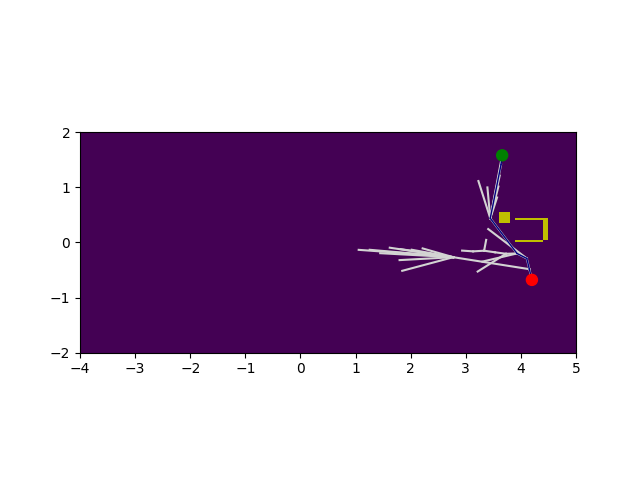
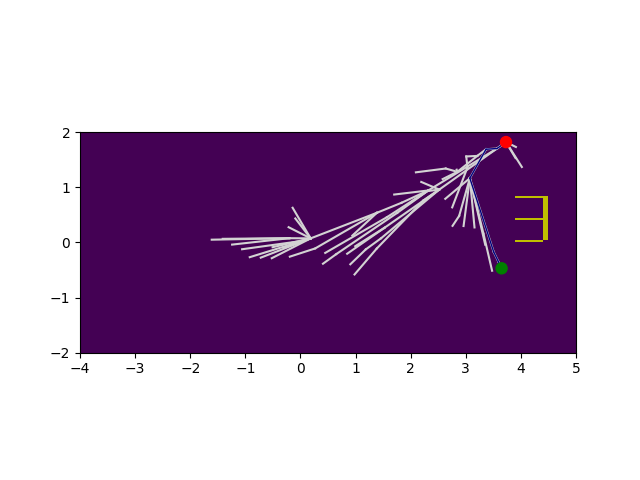
abc

Changed region(s): [[0.3438, 0.2812, 0.8438, 0.5938], [0.8125, 0.4062, 0.875, 0.4688]]

diff --git a/our_code/5_main.py b/our_code/5_main.py
@@ -54,12 +54,12 @@ def receive_new_frame(data_frame: DataFrame):
         if ms.id_num == 605:
             # Handle the chaser's data
             c_pos, c_rot, c_rad = chaser_data_handling.handle_frame(ms, "ctf_car")
-        if ms.id_num == 604:
+        if ms.id_num == 606: #604:
             # Handle the target's data (ctf_cube)
             t_pos, t_rot, t_rad = chaser_data_handling.handle_frame(ms, "ctf_cube")
-        if ms.id_num == 606:
-            # Handle the second cube's data (ctf_cube2)
-            t_pos2, t_rot2, t_rad2 = chaser_data_handling.handle_frame(ms, "ctf_cube2")
+        # if ms.id_num == 606:
+        #     # Handle the second cube's data (ctf_cube2)
+        #     t_pos2, t_rot2, t_rad2 = chaser_data_handling.handle_frame(ms, "ctf_cube2")
         
     #print("received new frame")
 
@@ -104,11 +104,11 @@ def turnToTarget(is_cube = True, curr_t_pos = t_pos):
         elif normalized_angle < 0:
             if not turning_state == left:
                 turning_state = left
-                send_lift_request(60)
+                send_lift_request(20)
         else:
             if not turning_state == right:
                 turning_state = right
-                send_right_request(60)
+                send_right_request(20)
     time.sleep(1)
 
 def GoToTarget(is_cube = True, curr_t_pos = t_pos):
@@ -129,6 +129,96 @@ def GoToTarget(is_cube = True, curr_t_pos = t_pos):
                 send_go_request()
 
     time.sleep(1)
+
+
+
+
+from scipy.interpolate import splprep, splev
+#import numpy as np
+
+def interpolate_path(path, num_points=100):
+    path = np.array(path).T  # Shape (2, N)
+    if len(path[0]) < 3:  # Too few points, skip interpolation
+        return np.array(path).T.tolist()
+
+    tck, u = splprep(path, s=0)
+    unew = np.linspace(0, 1, num_points)
+    out = splev(unew, tck)
+    return np.vstack(out).T.tolist()  # Convert to list of [x, y]
+
+
+def follow_path_with_steer(path, lookahead_distance=0.3, stop_threshold=0.12):
+    streaming_client.update_sync()
+    robot_pos = np.array([c_pos[0], c_pos[2]])
+    path_index = 0
+
+    while path_index < len(path):
+        streaming_client.update_sync()
+        robot_pos = np.array([c_pos[0], c_pos[2]])
+
+        # Find next lookahead point
+        for i in range(path_index, len(path)):
+            if np.linalg.norm(np.array(path[i]) - robot_pos) >= lookahead_distance:
+                lookahead_point = np.array(path[i])
+                path_index = i
+                break
+        else:
+            break  # No more lookahead points
+
+        # Compute steering
+        target_angle = math.atan2(lookahead_point[1] - c_pos[2], lookahead_point[0] - c_pos[0])
+        angle_error = normalize_angle(target_angle - c_rad)
+
+        # Proportional control
+        base_speed = 100
+        k = 100
+        steer_left = int(base_speed - k * angle_error)
+        steer_right = int(base_speed + k * angle_error)
+
+        # Clamp to 0–255
+        steer_left = max(0, min(255, steer_left))
+        steer_right = max(0, min(255, steer_right))
+
+        send_steer_request(steer_left, steer_right)
+        time.sleep(0.05)
+
+        # Stop if we're near the final point
+        if np.linalg.norm(np.array(path[-1]) - robot_pos) < stop_threshold:
+            break
+
+    send_stop_request()
+
+
+# def follow_path_with_steer(path, lookahead_distance=0.3):
+#     path_index = 0
+#     while path_index < len(path) - 1:
+#         streaming_client.update_sync()
+#         robot_pos = np.array([c_pos[0], c_pos[2]])
+
+#         # Find lookahead point
+#         for i in range(path_index, len(path)):
+#             if np.linalg.norm(np.array(path[i]) - robot_pos) >= lookahead_distance:
+#                 lookahead_point = np.array(path[i])
+#                 path_index = i
+#                 break
+#         else:
+#             break  # We're at the end of the path
+
+#         target_angle = math.atan2(lookahead_point[1] - c_pos[2], lookahead_point[0] - c_pos[0])
+#         angle_error = normalize_angle(target_angle - c_rad)
+
+#         # Proportional controller for wheel speed difference
+#         base_speed = 200
+#         k = 300  # tuning parameter
+#         steer_left = int(base_speed - k * angle_error)
+#         steer_right = int(base_speed + k * angle_error)
+#         steer_left = max(min(steer_left, 255), 0)
+#         steer_right = max(min(steer_right, 255), 0)
+
+#         send_steer_request(steer_left, steer_right)
+#         time.sleep(0.05)
+
+#     send_stop_request()
 
 
 
@@ -165,13 +255,17 @@ try:
         plan = []
         plan=get_path_to_target(c_pos, t_pos)
 
+        # Smooth the plan
+        smoothed_plan = interpolate_path(plan, num_points=100)
+        follow_path_with_steer(smoothed_plan)
+
         #iteration nover the plan
-        for i in range(len(plan) - 1):
-            go_to_pos = [plan[i+1][0],0, plan[i+1][1]]  # Add an extra element (e.g., 0) to go_to_pos
-            print("Current position:", go_to_pos)
-            turnToTarget(False, go_to_pos)
-            turnToTarget(False, go_to_pos)
-            GoToTarget(False, go_to_pos)
+        # for i in range(len(plan) - 1):
+        #     go_to_pos = [plan[i+1][0],0, plan[i+1][1]]  # Add an extra element (e.g., 0) to go_to_pos
+        #     print("Current position:", go_to_pos)
+        #     turnToTarget(False, go_to_pos)
+        #     turnToTarget(False, go_to_pos)
+        #     GoToTarget(False, go_to_pos)
 
         # turnToTarget()
         # turnToTarget()
@@ -181,17 +275,20 @@ try:
         send_servo_request(57)
         plan=get_path_to_target(c_pos, base_pos)
         print("finished planening")
-        for i in range(len(plan) - 1):
-            go_to_pos = [plan[i+1][0],0, plan[i+1][1]]  # Add an extra element (e.g., 0) to go_to_pos
-            print("Current position:", go_to_pos)
-            turnToTarget(False, go_to_pos)
-            turnToTarget(False, go_to_pos)
-            GoToTarget(False, go_to_pos)
+        # for i in range(len(plan) - 1):
+        #     go_to_pos = [plan[i+1][0],0, plan[i+1][1]]  # Add an extra element (e.g., 0) to go_to_pos
+        #     print("Current position:", go_to_pos)
+        #     turnToTarget(False, go_to_pos)
+        #     turnToTarget(False, go_to_pos)
+        #     GoToTarget(False, go_to_pos)
+
+        smoothed_plan = interpolate_path(plan, num_points=100)
+        follow_path_with_steer(smoothed_plan)
         
         # turnToTarget(False, base_pos)
         # turnToTarget(False, base_pos)
         # GoToTarget(False, base_pos)
-        print("KNOW WE CAN GO TO THE TARGET POSITION")
+        print("NOW WE CAN GO TO THE TARGET POSITION")
 
         
     send_servo_request(30)
